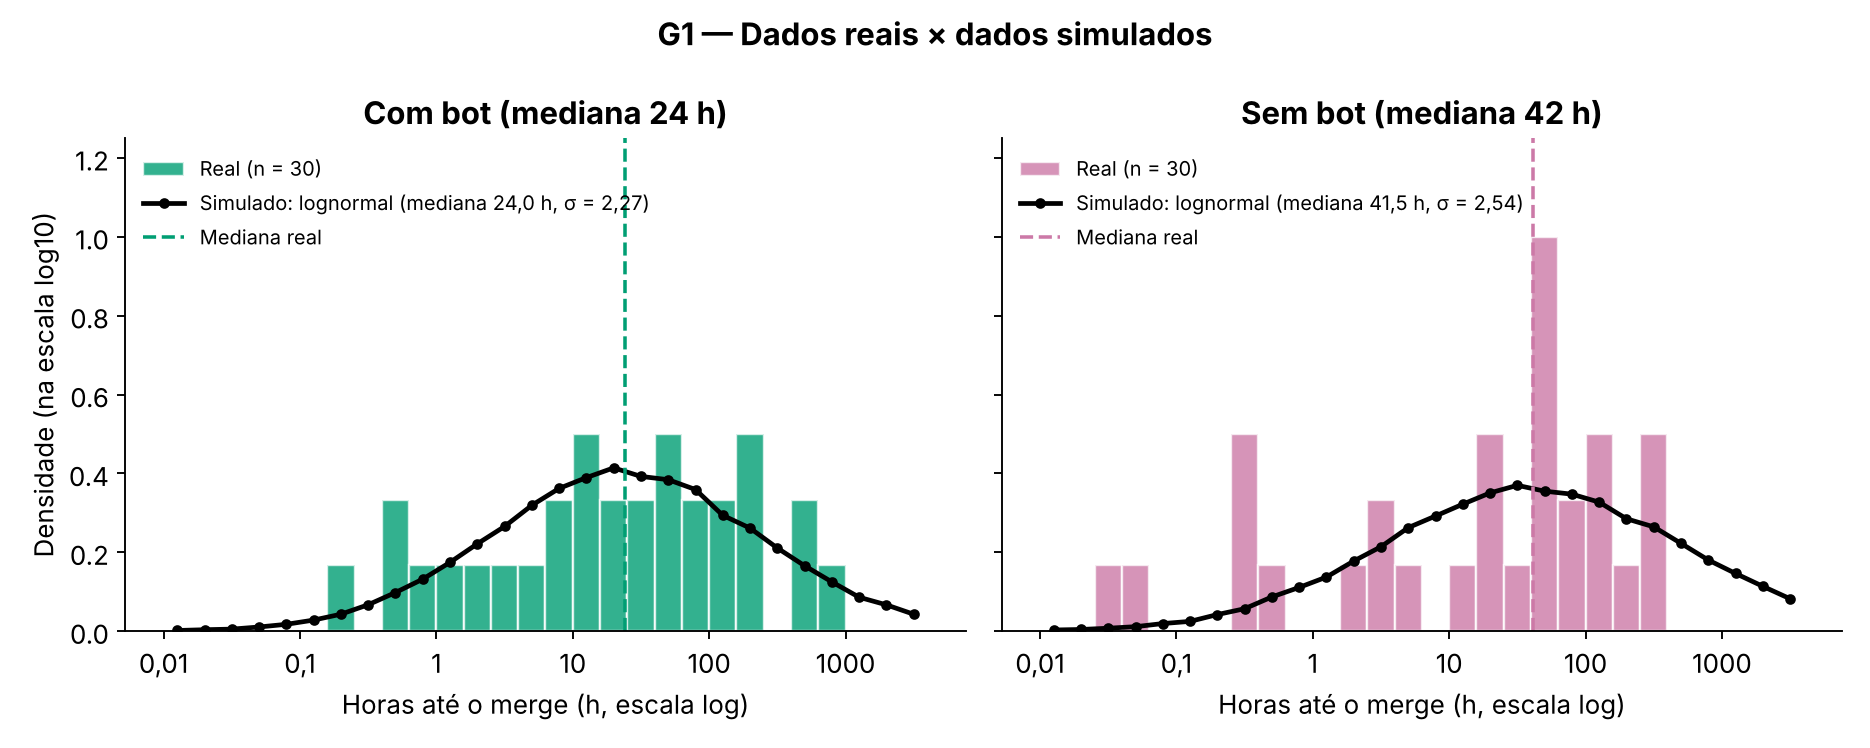
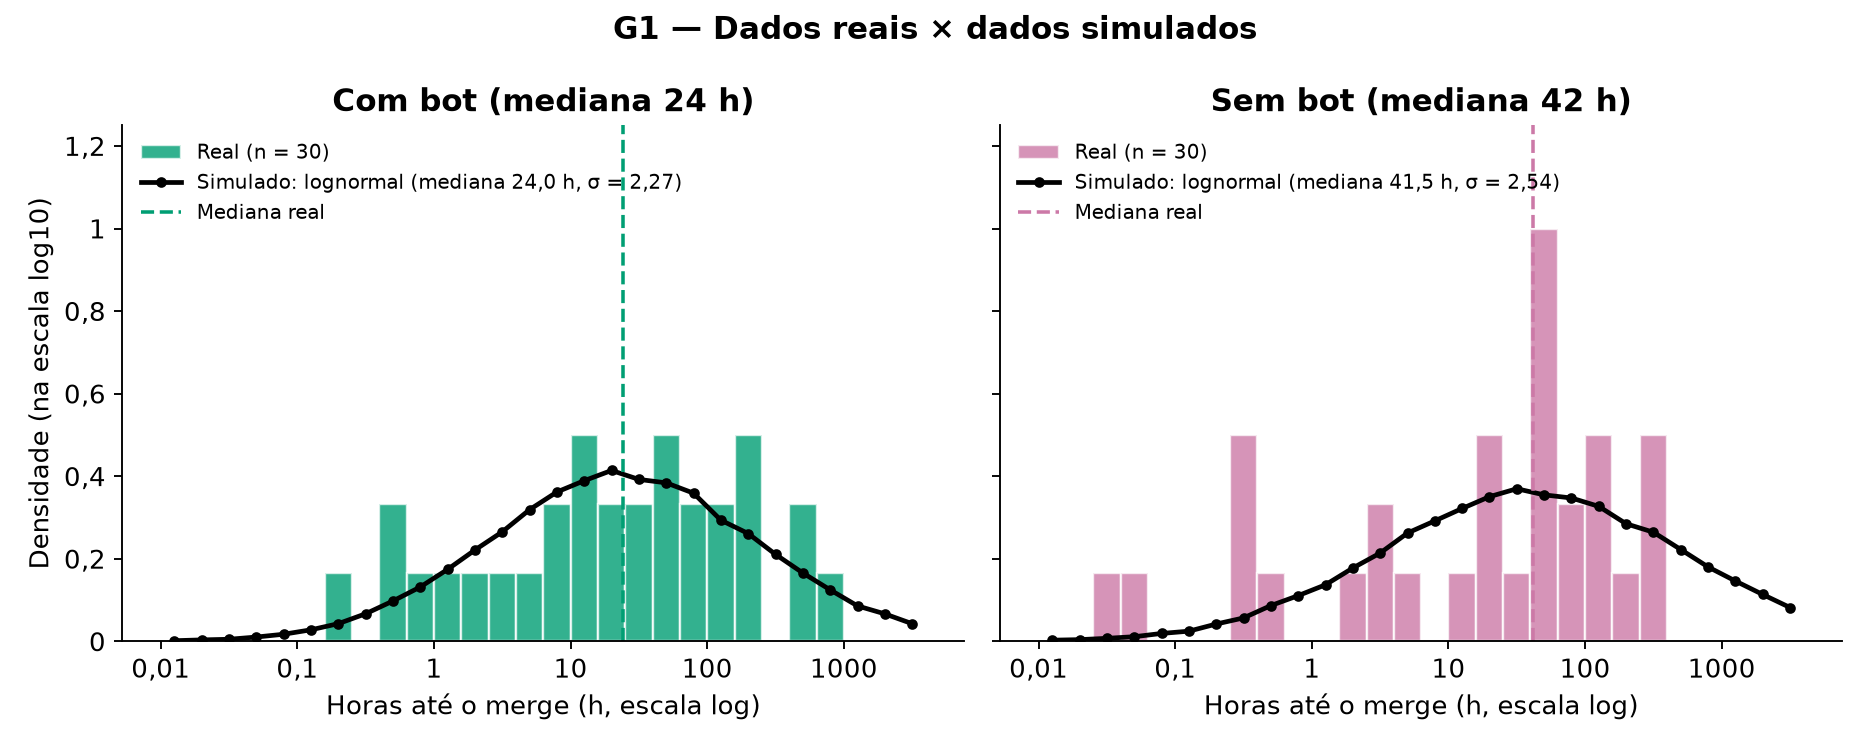
fix(graficos): vírgula decimal nos eixos, legenda do G3 fora das barras e fonte fixa #17 #3 #4

diff --git a/src/readme.py b/src/readme.py
@@ -8,6 +8,7 @@ import numpy as np, pandas as pd, matplotlib
 matplotlib.use('Agg')
 import matplotlib.pyplot as plt
 from matplotlib.lines import Line2D
+from matplotlib.ticker import FuncFormatter
 from scipy import stats
 
 ROOT = pathlib.Path(__file__).resolve().parents[1]
@@ -115,8 +116,11 @@ real_txt = (f'Os dois testes chegam à mesma conclusão: não há evidência de 
             '(antes e depois do bot), mesmo uma diferença não seria atribuível só ao bot.')
 
 # ---------- Gráficos ----------
-plt.rcParams.update({'font.size': 11, 'axes.spines.top': False, 'axes.spines.right': False, 'savefig.dpi': 170,
-                     'axes.titleweight': 'bold'})
+# Fonte fixa (vem com o matplotlib): as imagens saem iguais em qualquer máquina
+plt.rcParams.update({'font.family': 'DejaVu Sans', 'font.size': 11, 'axes.spines.top': False,
+                     'axes.spines.right': False, 'savefig.dpi': 170, 'axes.titleweight': 'bold'})
+# Vírgula como separador decimal nos eixos, igual aos rótulos e ao texto do README
+VIRGULA = FuncFormatter(lambda v, _: f'{v:g}'.replace('.', ','))
 rng = np.random.default_rng(config.SEED)
 
 # G1 — histograma real × lognormal simulada com os parâmetros de cada grupo (cenario.PARAMS)
@@ -134,7 +138,7 @@ for j, (grupo, x, c, nome) in enumerate([('com_bot', a, CB, 'Com bot'), ('sem_bo
     ax[j].set_xticks([-2, -1, 0, 1, 2, 3]); ax[j].set_xticklabels(['0,01', '0,1', '1', '10', '100', '1000'])
     ax[j].set_xlabel('Horas até o merge (h, escala log)'); ax[j].set_ylim(0, 1.25)
     ax[j].legend(frameon=False, fontsize=8.5, loc='upper left')
-ax[0].set_ylabel('Densidade (na escala log10)')
+ax[0].set_ylabel('Densidade (na escala log10)'); ax[0].yaxis.set_major_formatter(VIRGULA)
 fig.suptitle('G1 — Dados reais × dados simulados', fontweight='bold'); fig.tight_layout(); fig.savefig(IMG/'g1.png'); plt.close()
 
 # G2
@@ -147,6 +151,7 @@ def panel(ax, sim_stat, theo, crit, obs, pobs, lim, col, xl, title):
                     label=f'p-valor do exemplo = {pobs:.3f}'.replace('.', ','))
     ax.axvline(obs, color='k', lw=2.2, label='Valor observado'); ax.set_xlabel(xl); ax.set_ylabel('Densidade'); ax.set_title(title)
     ax.set_ylim(0, ax.get_ylim()[1]*1.5); ax.legend(frameon=False, fontsize=8.5, loc='upper left')
+    ax.yaxis.set_major_formatter(VIRGULA)
 fig, ax = plt.subplots(1, 2, figsize=(12, 4.8))
 panel(ax[0], h0.t.values, lambda v: stats.t.pdf(v, 57), stats.t.ppf(.975, 57), s['t'], s['p_welch'], 6, W,
       'Estatística t (adimensional)', 't de Welch (compara médias)')
@@ -166,7 +171,9 @@ for k, (al, nom) in enumerate((('05', 5), ('01', 1))):
     ax[k].axhline(nom, color=RED, ls='--', label=f'α nominal = {nom}%'); ax[k].set_ylim(0, nom*1.45)
     ax[k].set_xticks(xi); ax[k].set_xticklabels(SC); ax[k].set_xlabel('Cenário (S1 normal; S2–S4 lognormais; S5 outliers)')
     ax[k].set_ylabel('Rejeições com H₀ verdadeira (%)'); ax[k].set_title(f'α = {nom}%')
-ax[0].legend(frameon=False, fontsize=9, loc='lower left')
+    ax[k].yaxis.set_major_formatter(VIRGULA)
+# Legenda em uma linha no topo, acima das barras (antes cobria as barras do S1)
+ax[0].legend(frameon=False, fontsize=9, loc='upper left', ncol=3)
 fig.suptitle('G3 — Erro tipo I dos dois testes em cada cenário', fontweight='bold'); fig.tight_layout()
 fig.savefig(IMG/'g3.png'); plt.close()
 
@@ -178,6 +185,7 @@ for ax, k in zip(axs.ravel(), SC):
         ax.plot(d_.d, d_[f'welch_{al}']*100, ls, marker='o', color=W, alpha=alpha, lw=2.2, ms=4)
         ax.plot(d_.d, d_[f'mw_{al}']*100, ls, marker='s', color=M, alpha=alpha, lw=2.2, ms=4)
     ax.axhline(80, color='gray', ls=':'); ax.set_title(LAB[k], fontsize=10.5); ax.set_xlabel('Tamanho do efeito d (ver seção 2)')
+    ax.xaxis.set_major_formatter(VIRGULA)
 for ax in axs[:, 0]: ax.set_ylabel('Poder = rejeições (%)')
 axs[1, 2].axis('off')
 axs[1, 2].legend(handles=[Line2D([], [], color=W, marker='o', lw=2.2, label='t de Welch'),
